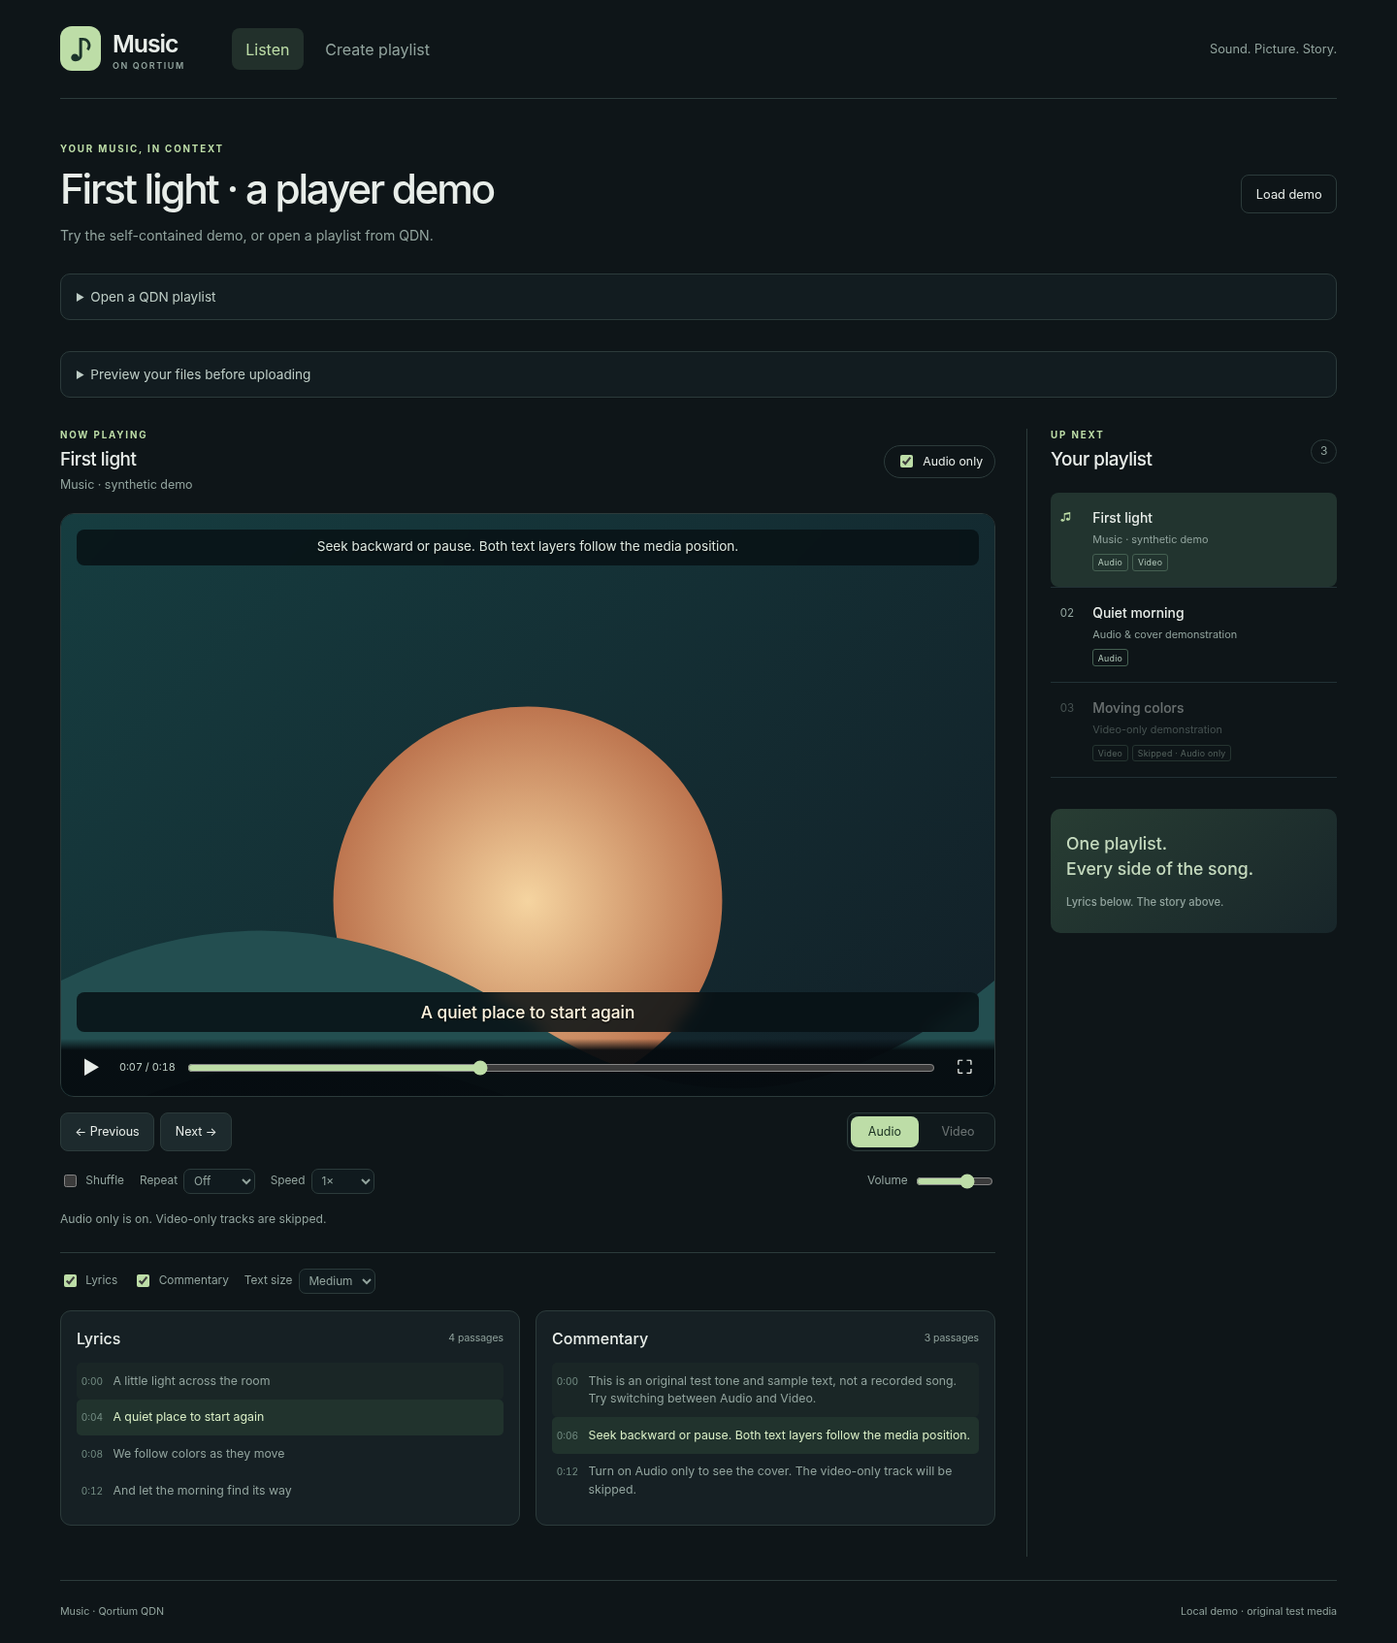
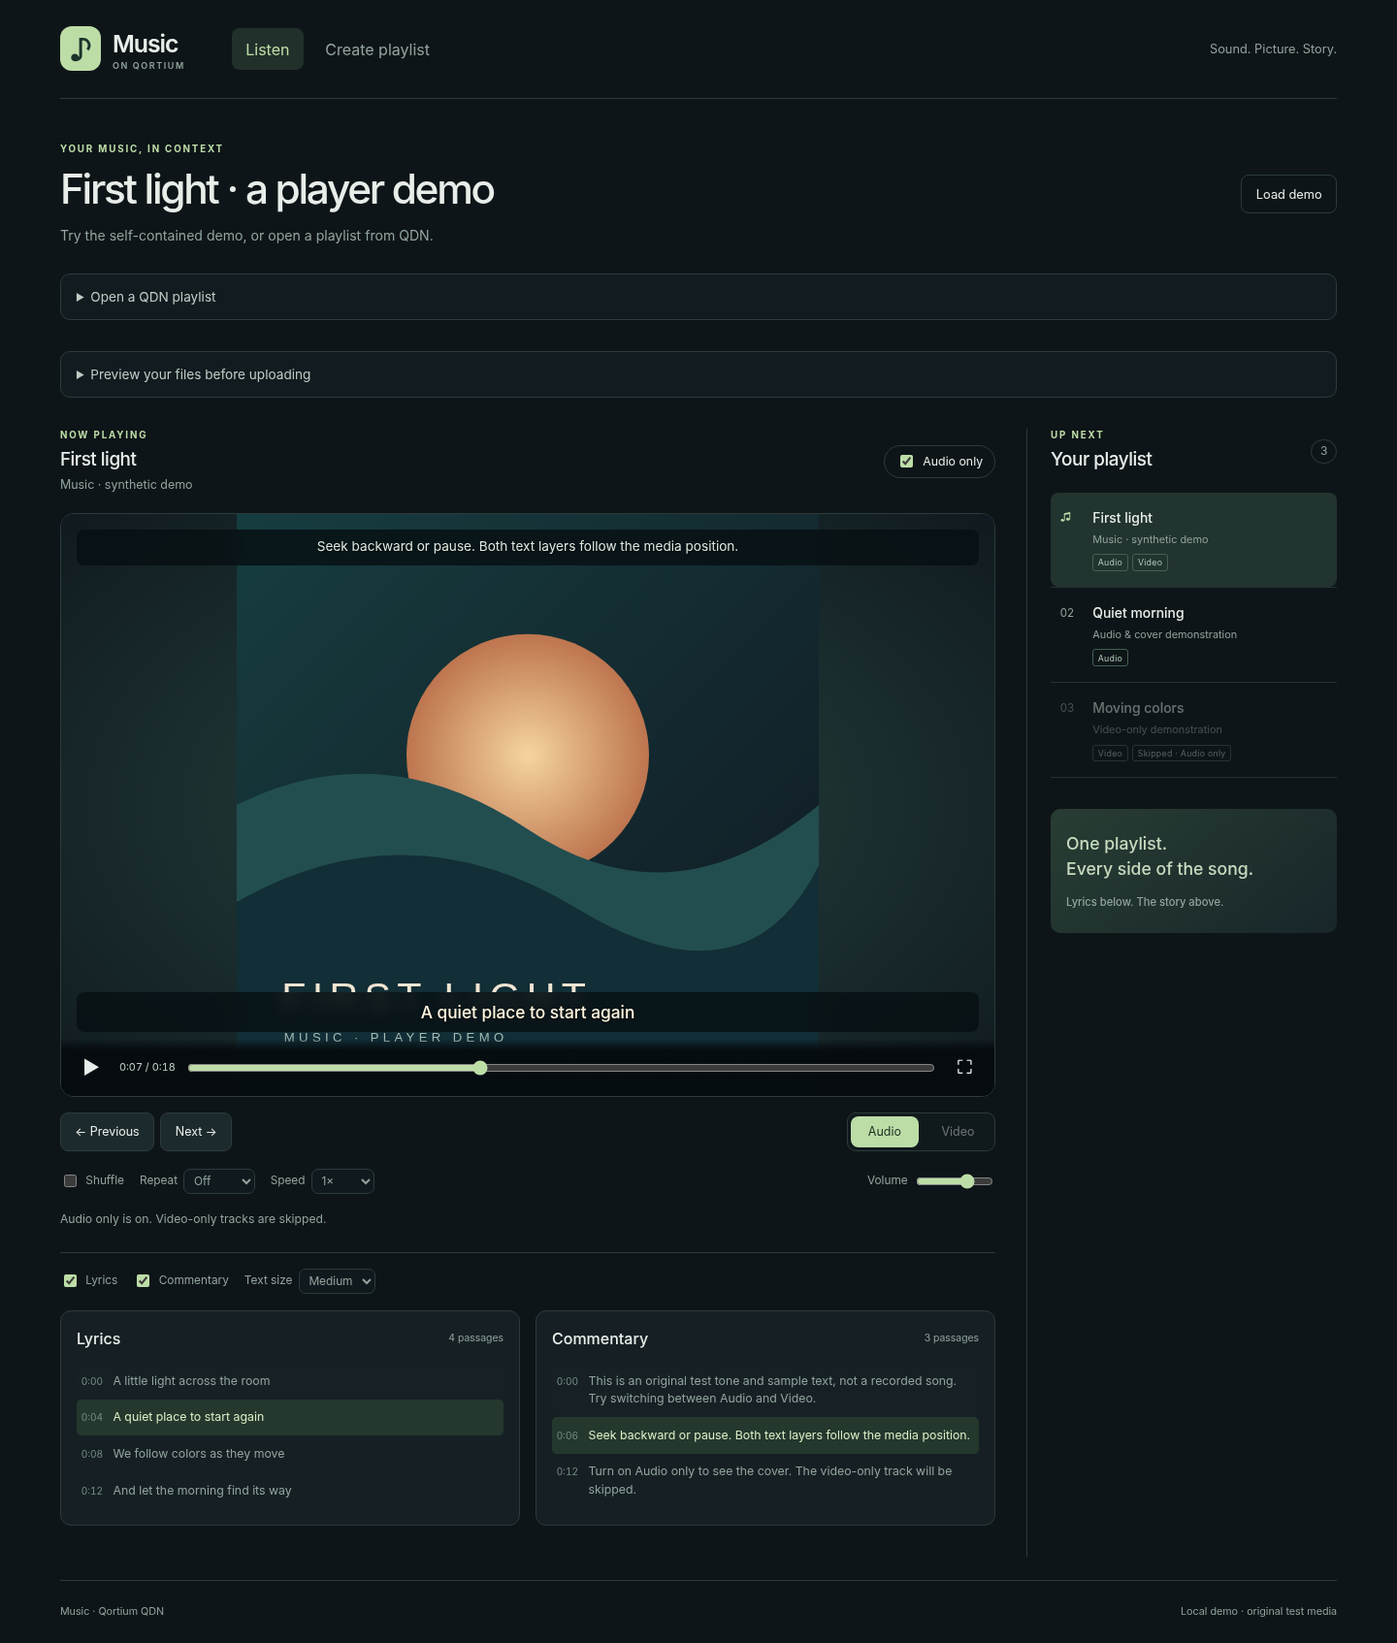
Keep cover images inside the player frame

Changed region(s): [[0.0312, 0.3684, 0.5938, 0.6446], [0.0312, 0.307, 0.1562, 0.3991], [0.6562, 0.5832, 0.7188, 0.6446]]

diff --git a/src/styles.css b/src/styles.css
@@ -1,6 +1,6 @@
 @import url('./editor.css');
 :root{font-family:Inter,ui-sans-serif,system-ui,-apple-system,BlinkMacSystemFont,'Segoe UI',sans-serif;color:#e8ede9;background:#0e1518;font-synthesis:none;color-scheme:dark;font-weight:400;line-height:1.5;--accent:#bddda7;--muted:#91a39d;--border:#2c3b3b;--surface:#162024}
-*{box-sizing:border-box}body{margin:0}button,input,select,textarea{font:inherit}button,a,input,select,textarea{-webkit-tap-highlight-color:transparent}button{cursor:pointer;border:1px solid var(--border);border-radius:8px;background:#1d2a2d;color:inherit;padding:.6rem .9rem;transition:background .15s,border-color .15s}button:hover:not(:disabled){background:#2b3d3e;border-color:#668377}button:disabled{opacity:.42;cursor:not-allowed}button:focus-visible,a:focus-visible,input:focus-visible,select:focus-visible,summary:focus-visible{outline:2px solid var(--accent);outline-offset:3px}input:not([type=checkbox]):not([type=range]),select,textarea{border:1px solid var(--border);border-radius:7px;background:#101a1e;color:inherit;padding:.55rem .7rem;max-width:100%}input[type=checkbox],input[type=range]{accent-color:var(--accent)}input[type=range]{min-width:0}a{color:inherit}h1,h2,h3,p{margin:0}h1{font-size:clamp(1.7rem,3.2vw,2.65rem);font-weight:550;letter-spacing:-.055em;line-height:1.2}h2{font-size:1.18rem;font-weight:550;letter-spacing:-.025em}h3{font-size:1rem;font-weight:550}.app-shell{max-width:1500px;margin:auto;padding:0 4.3%}.app-header{height:102px;display:flex;align-items:center;gap:3rem;border-bottom:1px solid var(--border)}.brand{display:flex;align-items:center;gap:.75rem;text-decoration:none;font-size:1.55rem;font-weight:600;letter-spacing:-.04em}.brand small{display:block;font-size:.56rem;letter-spacing:.18em;color:var(--muted);margin-top:-.2rem}.brand-icon{background:var(--accent);color:#1b332a;width:42px;height:46px;border-radius:12px;display:grid;place-items:center;font-size:1.9rem}.app-header nav{display:flex;gap:.5rem}.app-header nav button{border:0;background:transparent;color:var(--muted)}.app-header nav button.selected{color:var(--accent);background:#22302b}.header-note{margin-left:auto;color:var(--muted);font-size:.8rem}.intro{display:flex;align-items:center;justify-content:space-between;gap:1rem;margin:2.8rem 0 1.8rem}.eyebrow{font-size:.61rem;letter-spacing:.19em;font-weight:650;color:var(--accent);display:block;margin-bottom:.55rem}.intro p{margin-top:.7rem;color:var(--muted);font-size:.88rem}.subtle-button{background:transparent;font-size:.8rem;white-space:nowrap}.open-playlist{border:1px solid var(--border);border-radius:10px;margin-bottom:2rem;background:#121c20;font-size:.85rem}.open-playlist summary{cursor:pointer;padding:.8rem 1rem;color:#bdccc5}.open-playlist form{padding:0 1rem 1rem;display:flex;align-items:end;gap:.8rem;flex-wrap:wrap}.open-playlist label{display:grid;gap:.3rem;color:var(--muted)}.primary{background:var(--accent);color:#15271e;border-color:var(--accent);font-weight:600}.primary:hover:not(:disabled){background:#d3edc2}.listening-layout{display:grid;grid-template-columns:minmax(0,1fr) 320px;gap:2rem}.player-column{min-width:0}.section-heading{display:flex;align-items:center;justify-content:space-between;gap:1rem;margin-bottom:1.2rem}.section-heading .eyebrow{margin-bottom:.2rem}.section-heading p{font-size:.78rem;color:var(--muted);margin-top:.15rem}.toggle{display:flex;gap:.45rem;align-items:center;border:1px solid var(--border);border-radius:20px;padding:.4rem .75rem;font-size:.77rem;white-space:nowrap}.player-stage{position:relative;isolation:isolate;aspect-ratio:16/10;background:#060b0d;border:1px solid var(--border);border-radius:14px;overflow:hidden;min-height:280px}.video-media{width:100%;height:100%;position:absolute;inset:0;object-fit:contain}.audio-media{position:absolute;width:1px;height:1px;opacity:0;pointer-events:none}.cover-surface{position:absolute;inset:0;display:grid;place-items:center;background:radial-gradient(ellipse at center,#27433e,#101a20)}.cover-surface img{height:100%;width:100%;object-fit:contain}.cover-placeholder{display:grid;text-align:center;gap:1rem;color:var(--accent)}.cover-placeholder span{font-size:5rem}.cue-overlay{position:absolute;z-index:2;text-align:center;left:max(1rem,env(safe-area-inset-left));right:max(1rem,env(safe-area-inset-right));padding:.55rem .8rem;border-radius:8px;background:#071014d9;backdrop-filter:blur(8px);white-space:pre-line;overflow:auto;text-shadow:0 1px 2px #000}.cue-overlay p+p{margin-top:.35rem}.commentary-overlay{top:max(1rem,env(safe-area-inset-top));font-size:calc(.85rem * var(--cue-scale));line-height:1.45;max-height:30%;color:#dce8e0}.lyrics-overlay{bottom:calc(66px + env(safe-area-inset-bottom));font-size:calc(1.08rem * var(--cue-scale));line-height:1.35;font-weight:550;max-height:28%;color:#fff5df}.stage-controls{position:absolute;z-index:3;bottom:0;left:0;right:0;display:flex;align-items:center;gap:.65rem;padding:.6rem max(.8rem,env(safe-area-inset-right)) max(.6rem,env(safe-area-inset-bottom)) max(.8rem,env(safe-area-inset-left));background:linear-gradient(transparent,#050a0eee 20%)}.stage-controls button{background:transparent;border:0;padding:.35rem .6rem;font-size:1.2rem}.stage-controls input{flex:1;min-width:20px}.stage-time{font-variant-numeric:tabular-nums;font-size:.68rem;white-space:nowrap;color:#bdcec5}.loading-badge{position:absolute;left:50%;top:50%;transform:translate(-50%,-50%);background:#101a20dc;border-radius:30px;padding:.5rem 1rem;font-size:.75rem}.player-stage:fullscreen,.player-stage.immersive{width:100%;height:100%;max-width:none;aspect-ratio:auto;border:0;border-radius:0;background:#000}.player-stage.immersive{position:fixed;inset:0;z-index:1000;height:100dvh}.player-stage:fullscreen .lyrics-overlay,.player-stage.immersive .lyrics-overlay{font-size:calc(clamp(1.1rem,3vw,2rem) * var(--cue-scale))}.player-stage:fullscreen .commentary-overlay,.player-stage.immersive .commentary-overlay{font-size:calc(clamp(.9rem,2vw,1.3rem) * var(--cue-scale))}.transport{display:flex;justify-content:space-between;gap:1rem;margin-top:1rem}.button-group,.version-switch{display:flex;gap:.4rem}.transport button{font-size:.78rem}.version-switch{background:#10191c;border:1px solid var(--border);border-radius:9px;padding:3px}.version-switch button{border:0;padding:.35rem 1.1rem;background:transparent}.version-switch button[aria-pressed=true]{background:#bddda7;color:#193020}.playback-settings,.text-settings{display:flex;align-items:center;flex-wrap:wrap;gap:.75rem 1rem;font-size:.74rem;color:var(--muted);margin:1.1rem 0}.playback-settings label,.text-settings label{display:flex;align-items:center;gap:.4rem}.playback-settings select,.text-settings select{font-size:.74rem;padding:.25rem .35rem}.volume{margin-left:auto}.volume input{width:80px}.notice{padding:.75rem 1rem;margin:.7rem 0;border-left:2px solid var(--accent);background:#1d2a28;font-size:.8rem;overflow-wrap:anywhere}.hint{font-size:.76rem;color:var(--muted)}.text-settings{border-top:1px solid var(--border);padding-top:1rem;margin-top:1.5rem}.transcripts{display:grid;grid-template-columns:1fr 1fr;gap:1rem;margin-bottom:2rem}.transcript{background:var(--surface);border:1px solid var(--border);border-radius:11px;padding:1rem;min-width:0}.transcript h3{display:flex;justify-content:space-between;align-items:center;margin-bottom:.8rem}.transcript h3 span{font-size:.65rem;color:var(--muted);font-weight:400}.transcript-scroll{max-height:220px;overflow:auto}.transcript button{display:flex;align-items:baseline;gap:.65rem;width:100%;border:0;border-radius:5px;background:transparent;text-align:left;padding:.6rem .3rem;color:var(--muted);font-size:.77rem;white-space:pre-line}.transcript button time{font-size:.63rem;font-variant-numeric:tabular-nums;flex-shrink:0;color:#738c83}.transcript button.active-cue{color:#d8edc4;background:#263a30}.queue{padding-left:1.5rem;border-left:1px solid var(--border);min-width:0}.count{font-size:.75rem;border:1px solid var(--border);border-radius:20px;padding:.15rem .55rem;color:var(--muted)}.queue ol{margin:0;padding:0;list-style:none}.queue li{border-bottom:1px solid #223135}.queue li button{width:100%;display:flex;gap:.85rem;border:0;border-radius:8px;padding:1rem .6rem;text-align:left;background:transparent}.queue li.current button{background:#22342f}.track-number{font-size:.72rem;color:var(--muted);padding-top:.12rem;min-width:20px}.current .track-number{color:var(--accent)}.track-info{min-width:0;display:grid;gap:.2rem}.track-info strong{font-weight:550;font-size:.87rem;overflow-wrap:anywhere}.track-info small{color:var(--muted);font-size:.68rem;overflow-wrap:anywhere}.track-badges{display:flex;gap:.3rem;flex-wrap:wrap;margin-top:.25rem}.track-badges span{font-size:.55rem;letter-spacing:.03em;border:1px solid #456052;border-radius:3px;padding:.08rem .28rem;color:#afc5b7}.queue-note{margin-top:2rem;padding:1.4rem 1rem;background:linear-gradient(140deg,#283d33,#18262a);border-radius:10px;color:#c5dabe;font-size:1.1rem;font-weight:450;line-height:1.5}.queue-note p{font-size:.7rem;color:var(--muted);margin-top:.8rem}footer{display:flex;justify-content:space-between;gap:1rem;border-top:1px solid var(--border);padding:1.5rem 0;margin-top:1.5rem;font-size:.67rem;color:var(--muted)}[hidden]{display:none!important}
+*{box-sizing:border-box}body{margin:0}button,input,select,textarea{font:inherit}button,a,input,select,textarea{-webkit-tap-highlight-color:transparent}button{cursor:pointer;border:1px solid var(--border);border-radius:8px;background:#1d2a2d;color:inherit;padding:.6rem .9rem;transition:background .15s,border-color .15s}button:hover:not(:disabled){background:#2b3d3e;border-color:#668377}button:disabled{opacity:.42;cursor:not-allowed}button:focus-visible,a:focus-visible,input:focus-visible,select:focus-visible,summary:focus-visible{outline:2px solid var(--accent);outline-offset:3px}input:not([type=checkbox]):not([type=range]),select,textarea{border:1px solid var(--border);border-radius:7px;background:#101a1e;color:inherit;padding:.55rem .7rem;max-width:100%}input[type=checkbox],input[type=range]{accent-color:var(--accent)}input[type=range]{min-width:0}a{color:inherit}h1,h2,h3,p{margin:0}h1{font-size:clamp(1.7rem,3.2vw,2.65rem);font-weight:550;letter-spacing:-.055em;line-height:1.2}h2{font-size:1.18rem;font-weight:550;letter-spacing:-.025em}h3{font-size:1rem;font-weight:550}.app-shell{max-width:1500px;margin:auto;padding:0 4.3%}.app-header{height:102px;display:flex;align-items:center;gap:3rem;border-bottom:1px solid var(--border)}.brand{display:flex;align-items:center;gap:.75rem;text-decoration:none;font-size:1.55rem;font-weight:600;letter-spacing:-.04em}.brand small{display:block;font-size:.56rem;letter-spacing:.18em;color:var(--muted);margin-top:-.2rem}.brand-icon{background:var(--accent);color:#1b332a;width:42px;height:46px;border-radius:12px;display:grid;place-items:center;font-size:1.9rem}.app-header nav{display:flex;gap:.5rem}.app-header nav button{border:0;background:transparent;color:var(--muted)}.app-header nav button.selected{color:var(--accent);background:#22302b}.header-note{margin-left:auto;color:var(--muted);font-size:.8rem}.intro{display:flex;align-items:center;justify-content:space-between;gap:1rem;margin:2.8rem 0 1.8rem}.eyebrow{font-size:.61rem;letter-spacing:.19em;font-weight:650;color:var(--accent);display:block;margin-bottom:.55rem}.intro p{margin-top:.7rem;color:var(--muted);font-size:.88rem}.subtle-button{background:transparent;font-size:.8rem;white-space:nowrap}.open-playlist{border:1px solid var(--border);border-radius:10px;margin-bottom:2rem;background:#121c20;font-size:.85rem}.open-playlist summary{cursor:pointer;padding:.8rem 1rem;color:#bdccc5}.open-playlist form{padding:0 1rem 1rem;display:flex;align-items:end;gap:.8rem;flex-wrap:wrap}.open-playlist label{display:grid;gap:.3rem;color:var(--muted)}.primary{background:var(--accent);color:#15271e;border-color:var(--accent);font-weight:600}.primary:hover:not(:disabled){background:#d3edc2}.listening-layout{display:grid;grid-template-columns:minmax(0,1fr) 320px;gap:2rem}.player-column{min-width:0}.section-heading{display:flex;align-items:center;justify-content:space-between;gap:1rem;margin-bottom:1.2rem}.section-heading .eyebrow{margin-bottom:.2rem}.section-heading p{font-size:.78rem;color:var(--muted);margin-top:.15rem}.toggle{display:flex;gap:.45rem;align-items:center;border:1px solid var(--border);border-radius:20px;padding:.4rem .75rem;font-size:.77rem;white-space:nowrap}.player-stage{position:relative;isolation:isolate;aspect-ratio:16/10;background:#060b0d;border:1px solid var(--border);border-radius:14px;overflow:hidden;min-height:280px}.video-media{width:100%;height:100%;position:absolute;inset:0;object-fit:contain}.audio-media{position:absolute;width:1px;height:1px;opacity:0;pointer-events:none}.cover-surface{position:absolute;inset:0;display:grid;place-items:center;background:radial-gradient(ellipse at center,#27433e,#101a20)}.cover-surface img{position:absolute;inset:0;height:100%;width:100%;object-fit:contain}.cover-placeholder{display:grid;text-align:center;gap:1rem;color:var(--accent)}.cover-placeholder span{font-size:5rem}.cue-overlay{position:absolute;z-index:2;text-align:center;left:max(1rem,env(safe-area-inset-left));right:max(1rem,env(safe-area-inset-right));padding:.55rem .8rem;border-radius:8px;background:#071014d9;backdrop-filter:blur(8px);white-space:pre-line;overflow:auto;text-shadow:0 1px 2px #000}.cue-overlay p+p{margin-top:.35rem}.commentary-overlay{top:max(1rem,env(safe-area-inset-top));font-size:calc(.85rem * var(--cue-scale));line-height:1.45;max-height:30%;color:#dce8e0}.lyrics-overlay{bottom:calc(66px + env(safe-area-inset-bottom));font-size:calc(1.08rem * var(--cue-scale));line-height:1.35;font-weight:550;max-height:28%;color:#fff5df}.stage-controls{position:absolute;z-index:3;bottom:0;left:0;right:0;display:flex;align-items:center;gap:.65rem;padding:.6rem max(.8rem,env(safe-area-inset-right)) max(.6rem,env(safe-area-inset-bottom)) max(.8rem,env(safe-area-inset-left));background:linear-gradient(transparent,#050a0eee 20%)}.stage-controls button{background:transparent;border:0;padding:.35rem .6rem;font-size:1.2rem}.stage-controls input{flex:1;min-width:20px}.stage-time{font-variant-numeric:tabular-nums;font-size:.68rem;white-space:nowrap;color:#bdcec5}.loading-badge{position:absolute;left:50%;top:50%;transform:translate(-50%,-50%);background:#101a20dc;border-radius:30px;padding:.5rem 1rem;font-size:.75rem}.player-stage:fullscreen,.player-stage.immersive{width:100%;height:100%;max-width:none;aspect-ratio:auto;border:0;border-radius:0;background:#000}.player-stage.immersive{position:fixed;inset:0;z-index:1000;height:100dvh}.player-stage:fullscreen .lyrics-overlay,.player-stage.immersive .lyrics-overlay{font-size:calc(clamp(1.1rem,3vw,2rem) * var(--cue-scale))}.player-stage:fullscreen .commentary-overlay,.player-stage.immersive .commentary-overlay{font-size:calc(clamp(.9rem,2vw,1.3rem) * var(--cue-scale))}.transport{display:flex;justify-content:space-between;gap:1rem;margin-top:1rem}.button-group,.version-switch{display:flex;gap:.4rem}.transport button{font-size:.78rem}.version-switch{background:#10191c;border:1px solid var(--border);border-radius:9px;padding:3px}.version-switch button{border:0;padding:.35rem 1.1rem;background:transparent}.version-switch button[aria-pressed=true]{background:#bddda7;color:#193020}.playback-settings,.text-settings{display:flex;align-items:center;flex-wrap:wrap;gap:.75rem 1rem;font-size:.74rem;color:var(--muted);margin:1.1rem 0}.playback-settings label,.text-settings label{display:flex;align-items:center;gap:.4rem}.playback-settings select,.text-settings select{font-size:.74rem;padding:.25rem .35rem}.volume{margin-left:auto}.volume input{width:80px}.notice{padding:.75rem 1rem;margin:.7rem 0;border-left:2px solid var(--accent);background:#1d2a28;font-size:.8rem;overflow-wrap:anywhere}.hint{font-size:.76rem;color:var(--muted)}.text-settings{border-top:1px solid var(--border);padding-top:1rem;margin-top:1.5rem}.transcripts{display:grid;grid-template-columns:1fr 1fr;gap:1rem;margin-bottom:2rem}.transcript{background:var(--surface);border:1px solid var(--border);border-radius:11px;padding:1rem;min-width:0}.transcript h3{display:flex;justify-content:space-between;align-items:center;margin-bottom:.8rem}.transcript h3 span{font-size:.65rem;color:var(--muted);font-weight:400}.transcript-scroll{max-height:220px;overflow:auto}.transcript button{display:flex;align-items:baseline;gap:.65rem;width:100%;border:0;border-radius:5px;background:transparent;text-align:left;padding:.6rem .3rem;color:var(--muted);font-size:.77rem;white-space:pre-line}.transcript button time{font-size:.63rem;font-variant-numeric:tabular-nums;flex-shrink:0;color:#738c83}.transcript button.active-cue{color:#d8edc4;background:#263a30}.queue{padding-left:1.5rem;border-left:1px solid var(--border);min-width:0}.count{font-size:.75rem;border:1px solid var(--border);border-radius:20px;padding:.15rem .55rem;color:var(--muted)}.queue ol{margin:0;padding:0;list-style:none}.queue li{border-bottom:1px solid #223135}.queue li button{width:100%;display:flex;gap:.85rem;border:0;border-radius:8px;padding:1rem .6rem;text-align:left;background:transparent}.queue li.current button{background:#22342f}.track-number{font-size:.72rem;color:var(--muted);padding-top:.12rem;min-width:20px}.current .track-number{color:var(--accent)}.track-info{min-width:0;display:grid;gap:.2rem}.track-info strong{font-weight:550;font-size:.87rem;overflow-wrap:anywhere}.track-info small{color:var(--muted);font-size:.68rem;overflow-wrap:anywhere}.track-badges{display:flex;gap:.3rem;flex-wrap:wrap;margin-top:.25rem}.track-badges span{font-size:.55rem;letter-spacing:.03em;border:1px solid #456052;border-radius:3px;padding:.08rem .28rem;color:#afc5b7}.queue-note{margin-top:2rem;padding:1.4rem 1rem;background:linear-gradient(140deg,#283d33,#18262a);border-radius:10px;color:#c5dabe;font-size:1.1rem;font-weight:450;line-height:1.5}.queue-note p{font-size:.7rem;color:var(--muted);margin-top:.8rem}footer{display:flex;justify-content:space-between;gap:1rem;border-top:1px solid var(--border);padding:1.5rem 0;margin-top:1.5rem;font-size:.67rem;color:var(--muted)}[hidden]{display:none!important}
 @media(min-width:1600px){.app-shell{padding:0 4rem}}@media(max-width:1000px){.listening-layout{grid-template-columns:minmax(0,1fr) 250px;gap:1.2rem}.queue{padding-left:1rem}.header-note{display:none}.app-header{gap:2rem}.transcripts{grid-template-columns:1fr}.volume{margin-left:0}}@media(max-width:720px){.app-shell{padding:0 1rem}.app-header{height:80px;justify-content:space-between;gap:.5rem}.brand{font-size:1.3rem}.brand-icon{width:35px;height:40px}.app-header nav{gap:0}.app-header nav button{font-size:.75rem;padding:.6rem .7rem}.intro{margin:1.8rem 0 1.2rem;align-items:start}.intro p{font-size:.78rem}.intro .subtle-button{font-size:.65rem;padding:.4rem .55rem}.intro .eyebrow{font-size:.55rem}.listening-layout{grid-template-columns:1fr}.queue{padding:0;border-left:0;border-top:1px solid var(--border);padding-top:1.5rem}.queue-note{display:none}.player-stage{aspect-ratio:1.15;min-height:280px}.commentary-overlay{font-size:calc(.73rem * var(--cue-scale));max-height:30%}.lyrics-overlay{font-size:calc(.95rem * var(--cue-scale));max-height:27%}.stage-controls{gap:.15rem}.stage-time{font-size:.62rem}.section-heading h2{font-size:1.05rem}.toggle{font-size:.69rem;padding:.4rem .55rem}.transcripts{grid-template-columns:1fr}.open-playlist form{align-items:stretch}.open-playlist label{flex:1 1 130px}.open-playlist input{width:100%}.playback-settings{gap:.65rem}.text-settings{gap:.7rem}.transcript-scroll{max-height:190px}footer{font-size:.6rem}}
 @media(prefers-reduced-motion:reduce){*{scroll-behavior:auto!important;transition:none!important}}
 .local-preview-body{padding:0 1rem 1rem}.local-preview-grid{display:grid;grid-template-columns:repeat(auto-fit,minmax(220px,1fr));gap:.8rem;margin:1rem 0}.local-preview-grid label{display:grid;gap:.3rem;font-size:.78rem;color:var(--muted);min-width:0}.local-preview-grid input{width:100%;font-size:.75rem}.local-preview-grid input[type=checkbox]{width:auto}

diff --git a/QORTIUM-CHANGELOG.md b/QORTIUM-CHANGELOG.md
@@ -2,6 +2,11 @@
 
 ## Change Entries
 
+### 2026-09-16 — Keep cover images inside the player frame
+
+Constrain audio covers to the player bounds so square artwork remains fully
+visible on wide desktop layouts and narrow mobile screens.
+
 ### 2026-09-16 — Build the initial QDN music player
 
 Add a local-first playlist player with paired audio/video versions, static covers,
